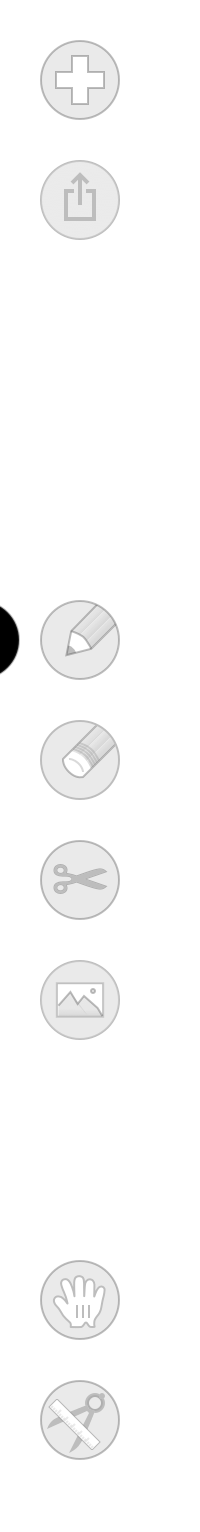
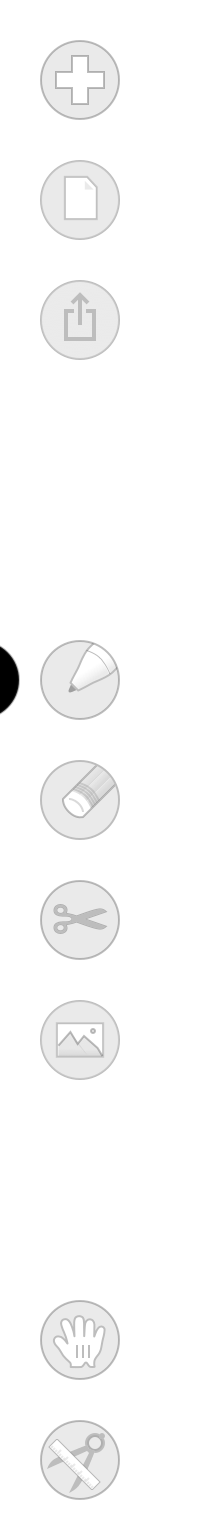
Fixed undo/redo button rotation at startup. Updated launch screen images. #1746

diff --git a/Project/LooseLeaf/MMEditablePaperStackView.m b/Project/LooseLeaf/MMEditablePaperStackView.m
@@ -42,14 +42,7 @@
 }
 
 + (CGRect)insertImageButtonFrame {
-    CGFloat startOfPencil = kStartOfSidebar;
-    CGRect addButtonFrame = [MMEditablePaperStackView addPageButtonFrame];
-    
-    if(startOfPencil < CGRectGetMinY(addButtonFrame) + 60 * 5){
-        startOfPencil = CGRectGetMinY(addButtonFrame) + 60 * 5;
-    }
-
-    return CGRectMake((kWidthOfSidebar - kWidthOfSidebarButton) / 2, startOfPencil + 60 * 3, kWidthOfSidebarButton, kWidthOfSidebarButton);
+    return CGRectMake((kWidthOfSidebar - kWidthOfSidebarButton) / 2, kStartOfSidebar + 60 * 3, kWidthOfSidebarButton, kWidthOfSidebarButton);
 }
 
 + (CGRect)backgroundStyleButtonFrame {
@@ -110,22 +103,15 @@
         [settingsButton addTarget:self action:@selector(toggleMemoryView:) forControlEvents:UIControlEventTouchUpInside];
         //        [self.toolbar addButton:settingsButton extendFrame:NO];
 
-
-        CGFloat startOfPencil = kStartOfSidebar;
-        
-        if(startOfPencil < CGRectGetMinY(addPageSidebarButton.frame) + 60 * 5){
-            startOfPencil = CGRectGetMinY(addPageSidebarButton.frame) + 60 * 5;
-        }
-        
-        pencilTool = [[MMPencilAndPaletteView alloc] initWithButtonFrame:CGRectMake((kWidthOfSidebar - kWidthOfSidebarButton) / 2, startOfPencil, kWidthOfSidebarButton, kWidthOfSidebarButton) andScreenSize:self.bounds.size];
+        pencilTool = [[MMPencilAndPaletteView alloc] initWithButtonFrame:CGRectMake((kWidthOfSidebar - kWidthOfSidebarButton) / 2, kStartOfSidebar, kWidthOfSidebarButton, kWidthOfSidebarButton) andScreenSize:self.bounds.size];
         [self.toolbar addPencilTool:pencilTool];
 
-        eraserButton = [[MMPencilEraserButton alloc] initWithFrame:CGRectMake((kWidthOfSidebar - kWidthOfSidebarButton) / 2, startOfPencil + 60, kWidthOfSidebarButton, kWidthOfSidebarButton)];
+        eraserButton = [[MMPencilEraserButton alloc] initWithFrame:CGRectMake((kWidthOfSidebar - kWidthOfSidebarButton) / 2, kStartOfSidebar + 60, kWidthOfSidebarButton, kWidthOfSidebarButton)];
         eraserButton.delegate = self;
         [eraserButton addTarget:self action:@selector(eraserTapped:) forControlEvents:UIControlEventTouchUpInside];
         [self.toolbar addButton:eraserButton extendFrame:NO];
 
-        CGRect scissorButtonFrame = CGRectMake((kWidthOfSidebar - kWidthOfSidebarButton) / 2, startOfPencil + 60 * 2, kWidthOfSidebarButton, kWidthOfSidebarButton);
+        CGRect scissorButtonFrame = CGRectMake((kWidthOfSidebar - kWidthOfSidebarButton) / 2, kStartOfSidebar + 60 * 2, kWidthOfSidebarButton, kWidthOfSidebarButton);
         scissorButton = [[MMScissorButton alloc] initWithFrame:scissorButtonFrame];
         scissorButton.delegate = self;
         [scissorButton addTarget:self action:@selector(scissorTapped:) forControlEvents:UIControlEventTouchUpInside];
@@ -135,13 +121,13 @@
         insertImageButton.delegate = self;
         [self.toolbar addButton:insertImageButton extendFrame:NO];
 
-        CGRect handButtonFrame = CGRectMake((kWidthOfSidebar - kWidthOfSidebarButton) / 2, startOfPencil + 60 * 5.5, kWidthOfSidebarButton, kWidthOfSidebarButton);
+        CGRect handButtonFrame = CGRectMake((kWidthOfSidebar - kWidthOfSidebarButton) / 2, kStartOfSidebar + 60 * 5.5, kWidthOfSidebarButton, kWidthOfSidebarButton);
         handButton = [[MMHandButton alloc] initWithFrame:handButtonFrame];
         handButton.delegate = self;
         [handButton addTarget:self action:@selector(handTapped:) forControlEvents:UIControlEventTouchUpInside];
         [self.toolbar addButton:handButton extendFrame:NO];
 
-        CGRect rulerButtonFrame = CGRectMake((kWidthOfSidebar - kWidthOfSidebarButton) / 2, startOfPencil + 60 * 6.5, kWidthOfSidebarButton, kWidthOfSidebarButton);
+        CGRect rulerButtonFrame = CGRectMake((kWidthOfSidebar - kWidthOfSidebarButton) / 2, kStartOfSidebar + 60 * 6.5, kWidthOfSidebarButton, kWidthOfSidebarButton);
         rulerButton = [[MMRulerButton alloc] initWithFrame:rulerButtonFrame];
         rulerButton.delegate = self;
         [rulerButton addTarget:self action:@selector(rulerTapped:) forControlEvents:UIControlEventTouchUpInside];

diff --git a/Project/LooseLeaf/MMLooseLeafViewController.m b/Project/LooseLeaf/MMLooseLeafViewController.m
@@ -153,7 +153,6 @@
         [MMPageCacheManager sharedInstance].delegate = self;
         [MMInboxManager sharedInstance].delegate = self;
         [MMCloudKitManager sharedManager].delegate = self;
-        [[MMRotationManager sharedInstance] setDelegate:self];
 
 
         // Do any additional setup after loading the view, typically from a nib.
@@ -379,6 +378,7 @@
                                                  selector:@selector(keyboardWillChangeFrame:)
                                                      name:UIKeyboardWillChangeFrameNotification
                                                    object:nil];
+        [[MMRotationManager sharedInstance] setDelegate:self];
 
         // Debug
 

diff --git a/Project/LooseLeaf/Constants.h b/Project/LooseLeaf/Constants.h
@@ -120,7 +120,7 @@ static inline CGRect _CGSizeAspectFillFit(CGSize sizeToScale, CGSize sizeToFill,
 #define kGutterWidthToDragPages 500
 #define kFingerWidth 40
 #define kFilteringFactor 0.2
-#define kStartOfSidebar 290
+#define kStartOfSidebar 310
 #define kWidthOfSidebarButton 60.0
 #define kWidthOfSidebarButtonBuffer 10
 #define kWidthOfSidebar 80
